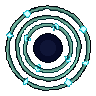
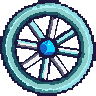
fix: keep fan effects as single readable silhouettes

diff --git a/Assets/JoseonHunter/Tests/EditMode/MobilePixelArtImportTests.cs b/Assets/JoseonHunter/Tests/EditMode/MobilePixelArtImportTests.cs
@@ -104,28 +104,7 @@ namespace JoseonHunter.Tests.EditMode
                 foreach (var path in Directory.GetFiles(root, "*.png", SearchOption.AllDirectories))
                 {
                     var assetPath = path.Replace('\\', '/');
-                    const string fragmentedTelegraph =
-                        "Assets/JoseonHunter/Art/Weapons/Runtime/Polish/Fan/fan_target_01.png";
-                    const string secondFragmentedTelegraph =
-                        "Assets/JoseonHunter/Art/Weapons/Runtime/Polish/Fan/fan_target_03.png";
-                    if (assetPath == fragmentedTelegraph)
-                    {
-                        var components = SinglePngAssetValidator.MeasureOpaqueComponents(assetPath);
-                        Assert.That(components, Is.EquivalentTo(new[] { 2754, 739, 1 }), assetPath);
-                        Assert.That(components.Count(component => component >= 414), Is.EqualTo(2), assetPath);
-                    }
-                    else if (assetPath == secondFragmentedTelegraph)
-                    {
-                        var components = SinglePngAssetValidator.MeasureOpaqueComponents(assetPath);
-                        var expectedComponents = new[]
-                        {
-                            636, 291, 32, 22, 18, 14, 11, 10, 7, 7, 6, 5, 5, 5, 5, 5, 5,
-                            4, 4, 4, 4, 4, 4, 4, 3, 3, 3, 3, 3, 2, 2, 2, 2, 2, 2, 2, 2,
-                            2, 2, 2, 2, 2, 2, 2
-                        }.Concat(Enumerable.Repeat(1, 35));
-                        Assert.That(components.OrderByDescending(component => component), Is.EqualTo(expectedComponents), assetPath);
-                    }
-                    else if (TryGetReviewedMultiPartVfx(assetPath, out var contract))
+                    if (TryGetReviewedMultiPartVfx(assetPath, out var contract))
                     {
                         var components = SinglePngAssetValidator.MeasureOpaqueComponents(assetPath);
                         Assert.That(components.Count, Is.EqualTo(contract.ExpectedComponentCount), assetPath);
